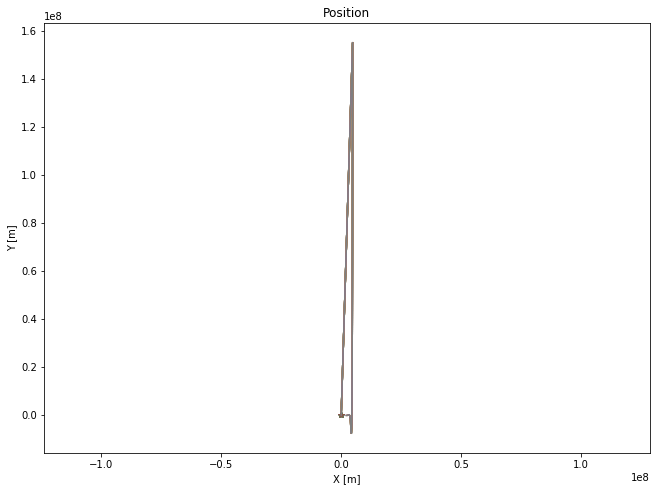
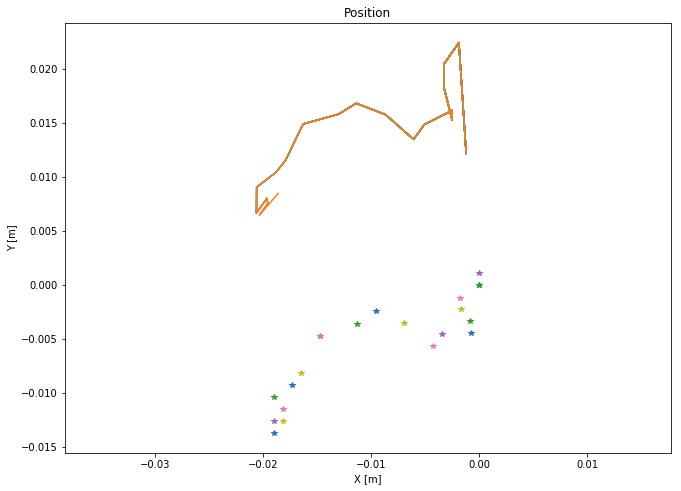
Issues with accuracy of KF
Raw data is more accurate, looking into issues with acceleration in x and y having a gravity component

diff --git a/avse/src/avse_playground/telemetrykflistener.py b/avse/src/avse_playground/telemetrykflistener.py
@@ -58,10 +58,10 @@ class Server:
 	#self.x_next = np.array([[0,0],[0,0]])
         #self.P_next = np.array([[0,0],[0,0]])
 
-        self.kf_past_velocity_x = [0]
-        self.kf_past_velocity_y = [0]
-        self.kf_past_position_x = [0]
-        self.kf_past_position_y = [0]
+        self.kf_past_velocity_x = []
+        self.kf_past_velocity_y = []
+        self.kf_past_position_x = []
+        self.kf_past_position_y = []
         self.P = np.array([[1,0,0,0],[0,1,0,0],[0,0,1,0],[0,0,0,1]])
 
         self.time = 0.0
@@ -78,10 +78,39 @@ class Server:
     def kalman(self):
         # Update time rate
         delta_t = self.gpsdt
+	print(delta_t)
 
+	# This section doesn't work as its talking about the change in orientation from the starting orientation I think, so we still get z gravity in the x-y "flat" plane
+        # Convert Quarternion to Yaw, Roll, Pitch
+        # from https://www.kaggle.com/c/career-con-2019/discussion/85303
+        w = self.imu.orientation.w
+        x = self.imu.orientation.x
+        y = self.imu.orientation.y
+        z = self.imu.orientation.z     
+        sinr_cosp = 2 * (w * x + y * z)
+        cosr_cosp = 1 - 2 * (x**2 + y**2)
+        roll = np.arctan2(sinr_cosp, cosr_cosp)
+
+        sinp = 2 * (w * y - z * x)
+        pitch = np.where(np.abs(sinp) >= 1, np.sign(sinp) * np.pi / 2, np.arcsin(sinp))
+
+        siny_cosp = 2 * (w * z + x * y)
+        cosy_cosp = 1 - 2 * (y**2 + z**2)
+        yaw = np.arctan2(siny_cosp, cosy_cosp)
+
+	# Make x-y plane flat in terms of acceleration (no gravity component)
+        R01 = np.array([[math.cos(yaw),-math.sin(yaw),0],[math.sin(yaw),math.cos(yaw),0],[0,0,1]])
+        R12 = np.array([[math.sin(yaw),0,math.cos(yaw)],[0,1,0],[-math.cos(yaw),0,math.sin(yaw)]])
+        R23 = np.array([[1,0,0],[0,math.cos(yaw),-math.sin(yaw)],[0,math.sin(yaw),math.cos(yaw)]])
+        R03 = R01.dot(R12).dot(R23)
+
+        accel0 = np.array([[self.acceleration.x],[self.acceleration.y],[self.acceleration.z]])
+        accel3 = R03.dot(accel0)        
+        print(accel3)
+        
 	# Process
 	xk_1 = self.x_k
-        ak_1 = np.array([[self.acceleration.x], [self.acceleration.y]])
+        ak_1 = np.array([[accel3[0][0]], [accel3[1][0]]])
         A = np.array([[1,0,delta_t,0],[0,1,0,delta_t],[0,0,1,0],[0,0,0,1]])
         B = np.array([[0.5*(delta_t*delta_t),0],[0,0.5*(delta_t*delta_t)],[delta_t,0],[0,delta_t]])
 
@@ -89,9 +118,12 @@ class Server:
         zk = np.array([[self.position.x], [self.position.y]])
         H = np.array([[1,0,0,0],[0,1,0,0]])
 
-        # Variance Matrices
-	Q = np.array([[self.gps.position_covariance[0],0,0,0],[0,self.gps.position_covariance[3],0,0],[0,0,1,0],[0,0,0,1]])
+        # Error Matrices
+        # Disturbance Covariances (model)
+	Q = np.array([[10,0,0,0],[0,10,0,0],[0,0,10,0],[0,0,0,10]])
+        # Noise Covariances (Sensors)
         R = np.array([[1,0],[0,1]])
+                    #[[self.gps.position_covariance[0],0],[0,self.gps.position_covariance[4]]])
 
 	# Prediction Equations
         X_k = A.dot(xk_1) + B.dot(ak_1)
@@ -106,6 +138,7 @@ class Server:
         self.kf_past_position_y.append(self.x_k[1])
         self.kf_past_velocity_x.append(self.x_k[2])
         self.kf_past_velocity_y.append(self.x_k[3])
+        self.kf_position = (self.x_k[0],self.x_k[1],0.0)
 
 	
     def imu_callback(self,imu):
@@ -118,13 +151,23 @@ class Server:
 
     def mf_callback(self,mf):
         self.mf = mf
-	self.past_heading.append(self.heading)        
+	self.past_heading.append(self.heading)
+	#if self.imu is not None:  
+        #    w = self.imu.orientation.w
+        #    x = self.imu.orientation.x
+        #    y = self.imu.orientation.y
+        #    z = self.imu.orientation.z      
+	#    imu_heading = math.tan2(2*(w*z+x*y),1-2*(y*y+z*z))        
 	self.heading = math.atan2(self.mf.magnetic_field.y, self.mf.magnetic_field.x)*(180/math.pi) + self.D
+        #print(self.heading)
+        #print(imu_heading)
         self.past_mf = mf
 
     def gps_callback(self, gps):
         self.gps = gps
         self.gpsdt = gps.header.stamp.to_sec() - self.gpstime
+	if self.gpsdt>5:
+	    self.gpsdt=1.0
         self.gpstime = gps.header.stamp.to_sec()
 
         if self.past_gps is not None:
@@ -151,10 +194,11 @@ class Server:
 
 	self.past_gps = gps
         print("position is: " + str(self.position))
-	print("velocity is: " + str(self.velocity))
+	print("revised position is: " + str(self.kf_position))
 
 	x0=self.past_position_x
         x1=self.past_position_y
+        print(x0,x1)
         x2=self.past_heading
 
         mx = np.cumsum(self.dx)
@@ -170,11 +214,12 @@ class Server:
            
 	if len(x0)>0:
             plt.plot(x0[-1],x1[-1],'*')
+            plt.plot(self.kf_past_position_x, self.kf_past_position_y)
             plt.axis('equal')
             plt.draw()
             plt.pause(0.000000001)
-            plt.plot(x0,x1)
-            plt.plot(self.kf_past_position_x, self.kf_past_position_y)
+            #plt.plot(x0,x1)
+            #plt.plot(self.kf_past_position_x, self.kf_past_position_y)
   
             #Basic-GPS-Position
             plt.savefig('KF-GPS-Position.png', dpi=72, transparent=True, bbox_inches='tight')
